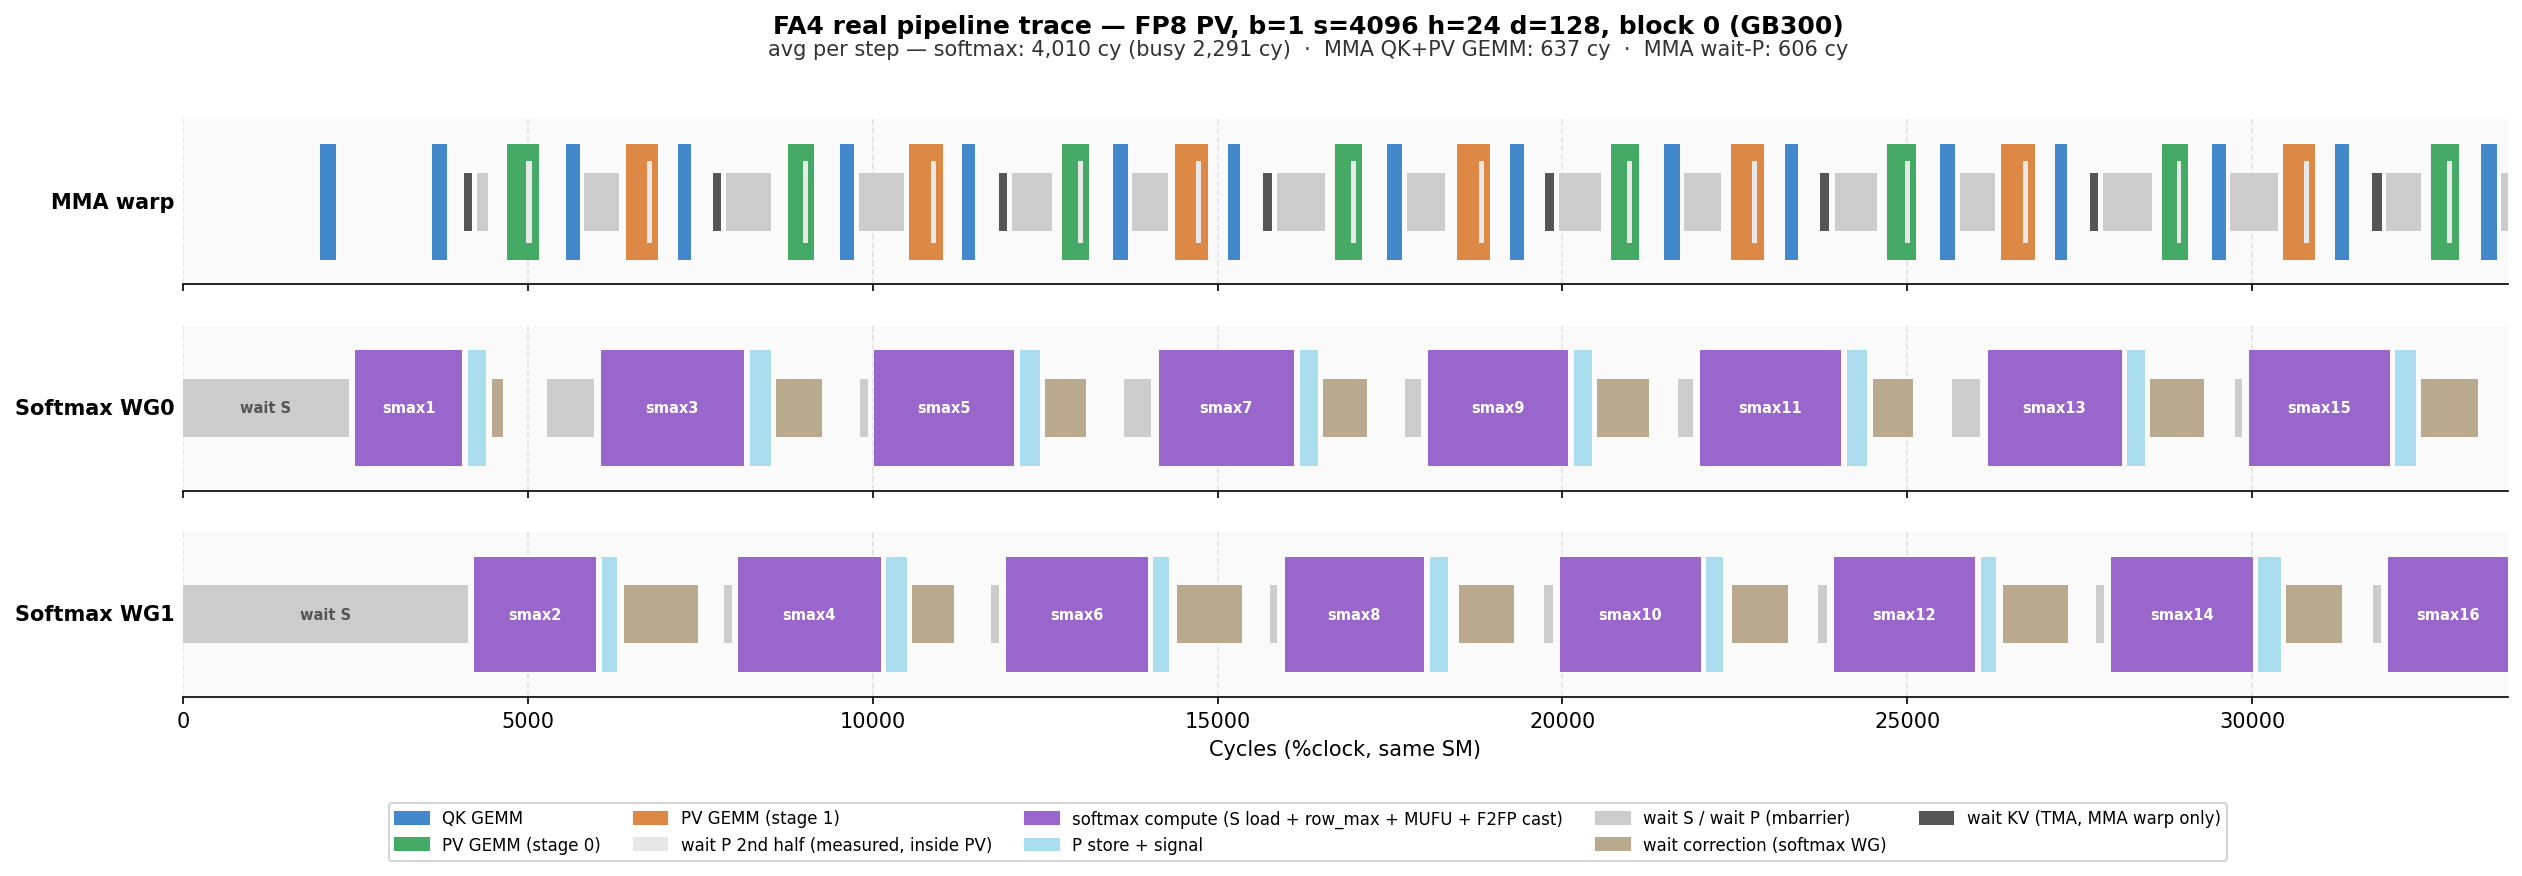
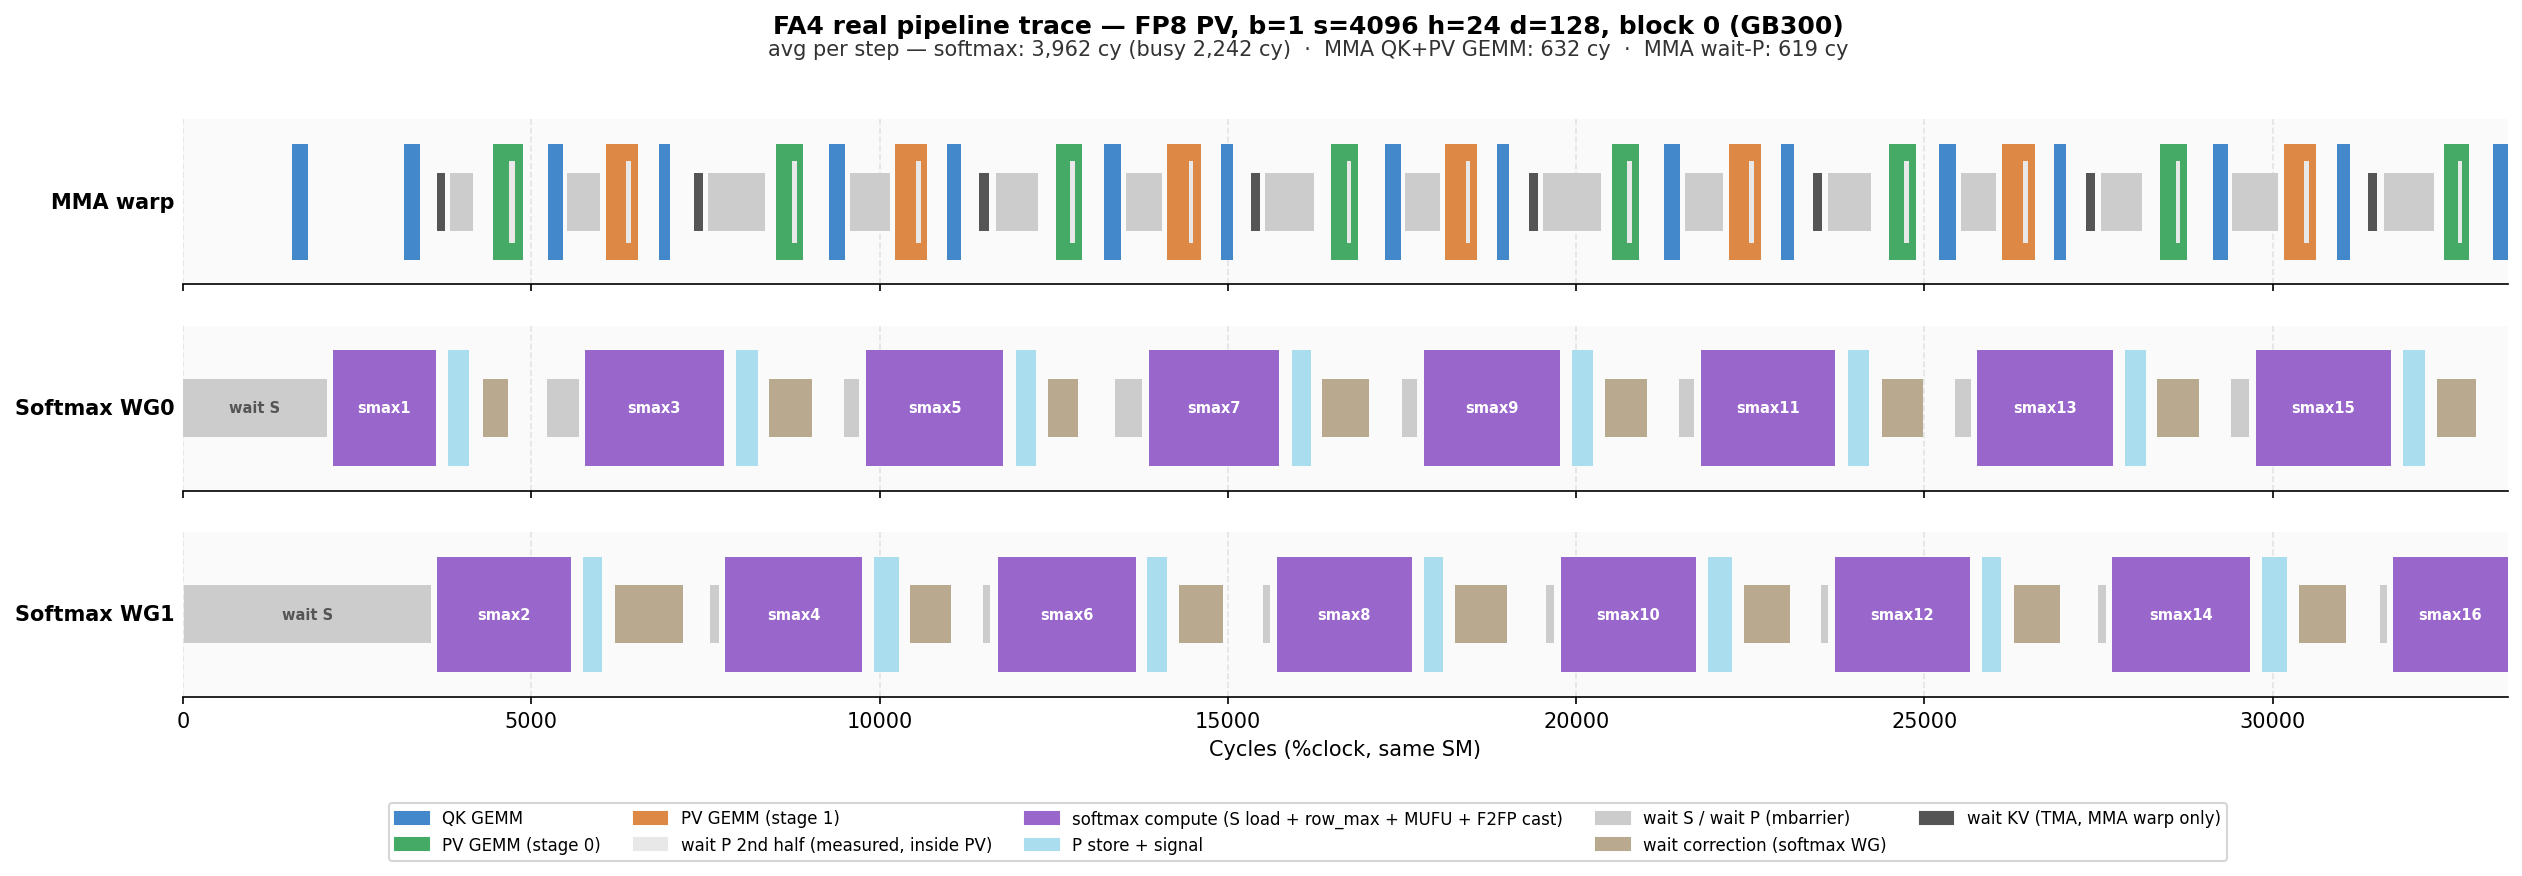
docs: regenerate coarse traces (all 4 PV modes incl. MXFP8) post-optimizations
trace_pipeline.py learns --pv_mode mxfp8; pin down the +128 fma.f32x2 as
the per-group bias pass in _fused_log2_group_quant (fusable into the
exp2-prep FMA with a per-group constant — future lever); add the
post-optimization per-step cycle table next to the baseline one.

diff --git a/flash_attn/cute/debug/trace_pipeline.py b/flash_attn/cute/debug/trace_pipeline.py
@@ -10,6 +10,7 @@ Usage:
     python3 flash_attn/cute/debug/trace_pipeline.py --pv_mode bf16
     python3 flash_attn/cute/debug/trace_pipeline.py --pv_mode fp8
     python3 flash_attn/cute/debug/trace_pipeline.py --pv_mode fp4
+    python3 flash_attn/cute/debug/trace_pipeline.py --pv_mode mxfp8
 """
 
 import argparse
@@ -148,8 +149,8 @@ def render(spans_by_bg, block, output_path, title, start_iter, num_iters,
     ]
     # BF16/FP8 P conversion is a plain cast (F2FP in SASS); only FP4 does
     # real quantization (group_max + scale + E2M1 pack).
-    quant_label = "quant" if pv_mode == "fp4" else "F2FP"
-    quant_legend = "P quant (FP4)" if pv_mode == "fp4" else "P cast (F2FP)"
+    quant_label = "quant" if pv_mode in ("fp4", "mxfp8") else "F2FP"
+    quant_legend = f"P quant ({pv_mode.upper()})" if pv_mode in ("fp4", "mxfp8") else "P cast (F2FP)"
     # Coarse traces (default) have no per-phase events: EVT_SOFTMAX_EXP is one
     # combined compute span. Detect by the absence of ROWMAX spans.
     detail = any(
@@ -267,7 +268,7 @@ def render(spans_by_bg, block, output_path, title, start_iter, num_iters,
 
     if detail:
         sm_legend = [
-            mpatches.Patch(color="#9966CC", label="MUFU (exp2)" if pv_mode == "fp4" else "MUFU (exp2, fused cast)"),
+            mpatches.Patch(color="#9966CC", label="MUFU (exp2)" if pv_mode in ("fp4", "mxfp8") else "MUFU (exp2, fused cast)"),
             mpatches.Patch(color="#CC3355", label=quant_legend),
             mpatches.Patch(color="#77BBDD", label="S load + row_max"),
         ]
@@ -275,7 +276,7 @@ def render(spans_by_bg, block, output_path, title, start_iter, num_iters,
         sm_legend = [
             mpatches.Patch(color="#9966CC",
                            label="softmax compute (S load + row_max + MUFU + "
-                                 + ("quant" if pv_mode == "fp4" else "F2FP cast") + ")"),
+                                 + ("quant" if pv_mode in ("fp4", "mxfp8") else "F2FP cast") + ")"),
         ]
     legend = [
         mpatches.Patch(color="#4488CC", label="QK GEMM"),
@@ -298,7 +299,7 @@ def render(spans_by_bg, block, output_path, title, start_iter, num_iters,
 
 def main():
     p = argparse.ArgumentParser()
-    p.add_argument("--pv_mode", default="bf16", choices=["bf16", "fp8", "fp4"])
+    p.add_argument("--pv_mode", default="bf16", choices=["bf16", "fp8", "fp4", "mxfp8"])
     p.add_argument("--batch", type=int, default=1)
     p.add_argument("--seqlen", type=int, default=4096)
     p.add_argument("--nheads", type=int, default=24)

diff --git a/flash_attn/cute/debug/b300_fp4_pv_analysis.md b/flash_attn/cute/debug/b300_fp4_pv_analysis.md
@@ -123,6 +123,27 @@ h=24 d=128, 96 softmax iterations/WG):
 | MMA QK+PV GEMM (one stage)  | 732     | 639    | 622    |
 | MMA wait-P (per PV)          | 933     | 595    | 1,171  |
 
+Post-optimization (2026-06-12 defaults: ld.red row-max, log-domain quant,
+3/4 FP8 P-split, SF-stepping fix; coarse, same shape — the current
+`pipeline_trace_{bf16,fp8,fp4,mxfp8}_pv.png` figures):
+
+| Per step (cycles)            | BF16 PV | FP8 PV | FP4 PV | MXFP8 PV |
+|------------------------------|---------|--------|--------|----------|
+| softmax step period          | 4,800   | 3,962  | 4,381  | 4,140    |
+| softmax step busy            | 2,369   | 2,242  | 2,429  | 2,280    |
+| MMA QK+PV GEMM (one stage)  | 707     | 632    | 618    | 615      |
+| MMA wait-P (per PV)          | 973     | 619    | 633    | 625      |
+
+FP4's softmax busy dropped 3,469 → 2,429 (log-domain quant + ld.red) and
+its step period 5,389 → 4,381. MXFP8 PV's busy time sits just +38 cycles
+over FP8's — in the *instrumented* kernel the extra group-bias FMA pass
+largely hides under MUFU latency. The end-to-end TFLOPS gap to FP8 PV
+(1148 vs 1555 at this shape) is much larger than the step-period delta
+(4,140 vs 3,962), so most of it lives in what the coarse softmax span
+doesn't isolate: the SF S2T staging + extra barriers on the softmax→MMA
+handoff and the per-tile tails (see the PTX-count section; remember the
+instrumentation caveat above — clean-kernel TFLOPS is the ground truth).
+
 Measured means per event (detailed mode — relative proportions only, see
 artifact warning above; pre-optimization baseline, block 0, b=1 s=4096
 h=24 d=128, 96 softmax iterations per WG):
@@ -307,8 +328,14 @@ body; `CUTE_DSL_KEEP_PTX=1`, same NVFP4 QK in all modes):
 software FMNMX reduce remains compiled in for masked iterations.
 
 The P-pack cvt count is identical to FP8 PV — the gap is (a) **+128
-`fma.f32x2` on the FMA pipe** for per-group bias application (FP8 PV folds
-its single row-wise scale into values it already computes), (b) the **SFP
+`fma.f32x2` on the FMA pipe**: the log-domain quant runs a *second*
+packed-FMA pass over every element to subtract the per-group bias
+(`_fused_log2_group_quant`), on top of the scale-subtract-rowmax pass both
+modes share — FP8 PV's single row-wise scale folds entirely into that
+first pass. (The two passes could in principle fuse into one FMA with a
+per-group constant `c_g = -(row_max*scale_log2 + bias_g)`; that needs the
+quant path to own the exp2 prep instead of receiving pre-subtracted
+scores — a future lever worth ~128 f32x2 FMAs/step.) (b) the **SFP
 R2S + S2T round-trip and its barriers** sitting on the softmax→MMA
 critical path, and (c) the **handoff structure**: FP8 PV releases the PV
 MMA after 3/4 of plain P chunks (chunk-pipelined pack/store), while the
